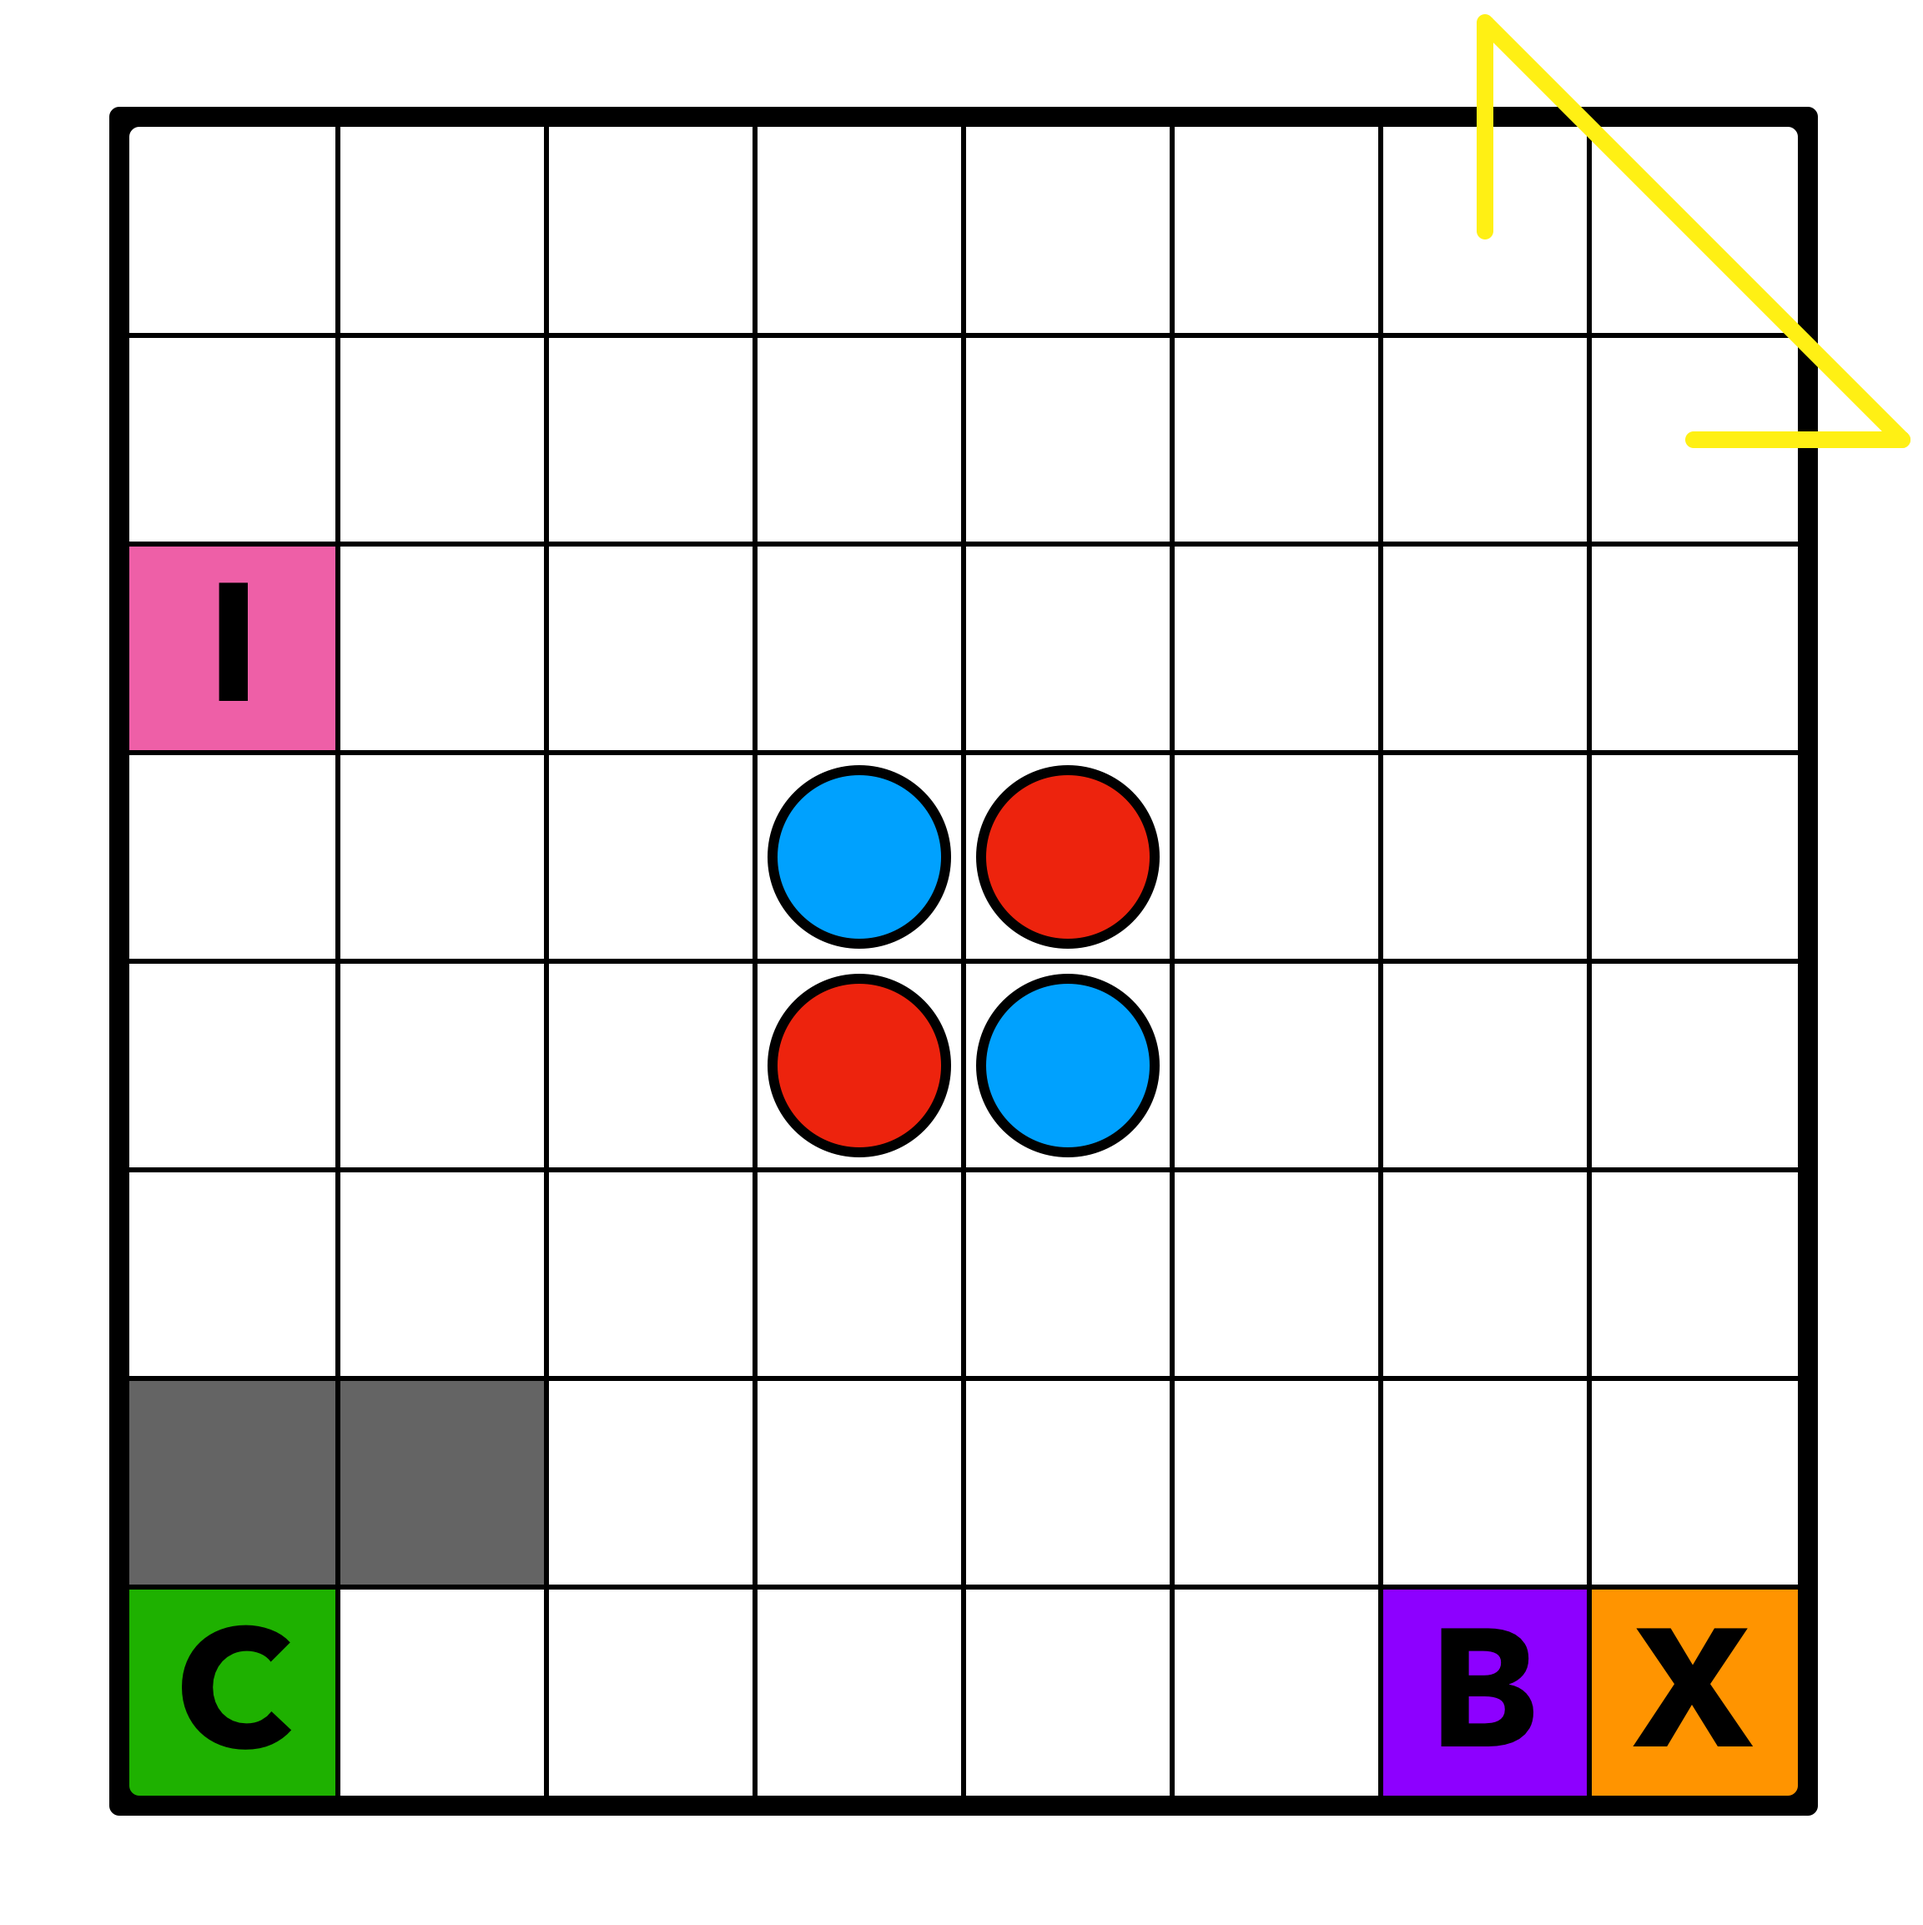
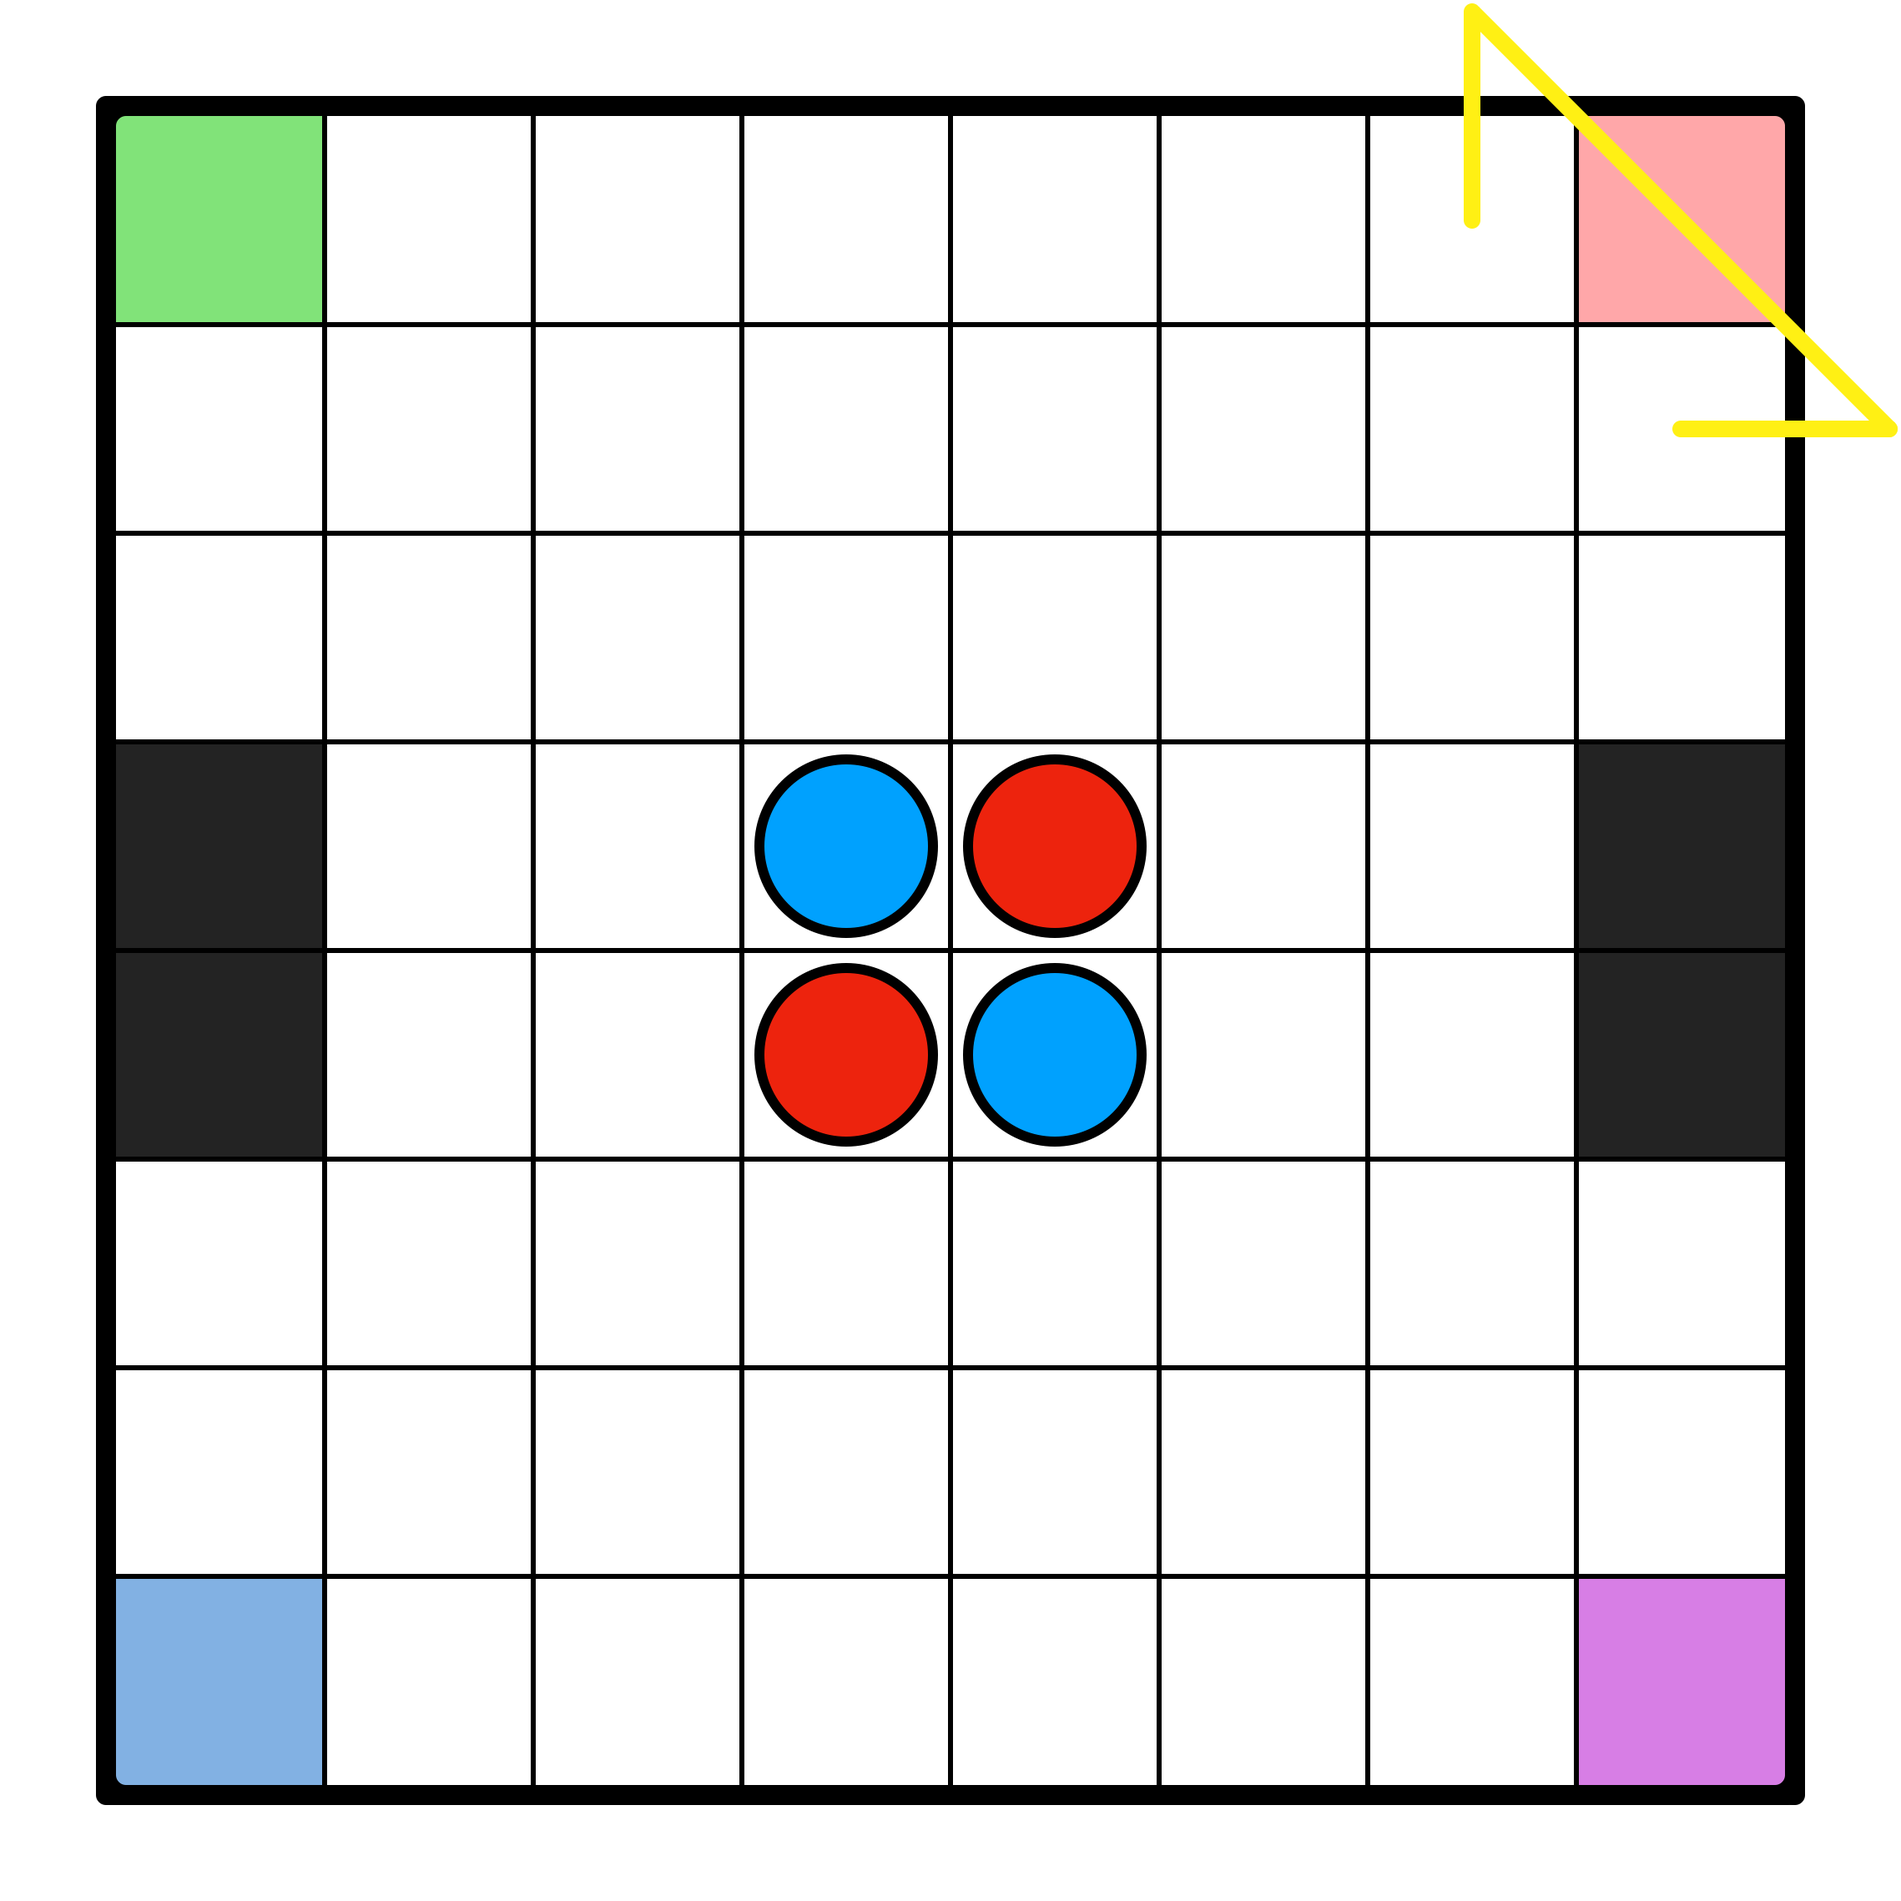
revision of the project report

diff --git a/projektbericht/chapters/spielfeldbewertung.tex b/projektbericht/chapters/spielfeldbewertung.tex
@@ -142,7 +142,7 @@ Es wird aus folgenden Gr\"unden die Karte aus Abbildung~\ref{fig:statistic-map} 
 \vspace{1em}
 \begin{minipage}{\linewidth}
     \centering
-    \includegraphics[width=0.9\linewidth]{statistic/Test-D5-01/ST-01-D5-LD}
+    \includegraphics[width=0.9\linewidth]{statistic/ORIGINAL-D5-01/ST-01-D5-LD}
     \captionof{figure}[Statistik für Tiefe 5]{Diese Statistik wurde bei einem Spiel der Tiefe 5 aufgenommen.}
     \label{fig:statistic-screen}
 \end{minipage}
@@ -195,7 +195,9 @@ Jedoch bewirkt das Alpha-Beta-Pruning eine gestauchtere Kurve als der Minimax-Al
 Bei gleicher Anzahl an bewerteten Feldern wird mit Alpha-Beta-Pruning der Suchbaum tiefer analysiert und dadurch mehr Z\"uge miteinander verglichen.
 Das f\"uhrt dazu, dass bei gleichem Zeitaufwand (\corresponds gleiche Anzahl an analysierten Spielzust\"anden) das beste Ergebnis einer \underline{tieferen} Suchbaumebene gefunden wird.
 
-Um diese Aussage adequate zu best\"atigen werden vier weitere Karten aufgef\"uhrt, bei denen erneut Tests durchgef\"uhrt werden.
+\newpage
+
+Um diese Aussage adequate zu best\"atigen werden vier weitere Karten (siehe Abbildung~\ref{fig:additional-statistic-maps}) aufgef\"uhrt, bei denen erneut Tests durchgef\"uhrt werden.
 
 \textbf{Cupcake:}
 Diese Map hat bereits zu Beginn sehr viele unterschiedliche Startpositionen.
@@ -218,7 +220,24 @@ Diese Karte wird auf Tiefe 5 durchlaufen.
 \textbf{Europa:}
 Die Europa Karte ist eine sehr gro\"se Map bei der jedoch viele Stellen aus L\"ochern bestehen und es zudem eine Menge an Kanten und Ecken gibt.
 Dadurch wird die Spielfeldgewichtung unter Probe gestellt um zu testen ob es hierbei zu starken Abweichungen kommt, da die Gewichtung hier oft gleiche Ergebnise liefern k\"onnte und somit wenig weggek\"urzt werden kann.
-Diese Karte wird auf Tiefe 3 durchlaufen.
+Diese Karte wird auf Tiefe 3 durchlaufen, da es eine sehr gro"se Karte mit drei Spielern ist.
+Dabei wird als erster Spieler der triviale Client verwendet, welcher zu Beginn des Semesters jedem Team ausgeh\"andigt wird.
+
+\vspace{1em}
+\begin{figure}
+    \centering
+    \subfloat[Karte: Cupcake]{ \includegraphics[width=0.4\linewidth]{pics/maps/cupcake} }
+    \qquad
+    \subfloat[Karte: QR]{ \includegraphics[width=0.5\linewidth]{pics/maps/qr} }
+    \qquad
+    \subfloat[Karte: Dog Extended]{ \includegraphics[width=0.4\linewidth]{pics/maps/dog-extended} }
+    \qquad
+    \subfloat[Karte: Europa]{ \includegraphics[width=0.5\linewidth]{pics/maps/europa} }
+
+    \caption{Weitere Karten die f\"ur die Statistik verwendet werden}
+    \label{fig:additional-statistic-maps}
+\end{figure}
+
 
 \bigskip
 \newpage
